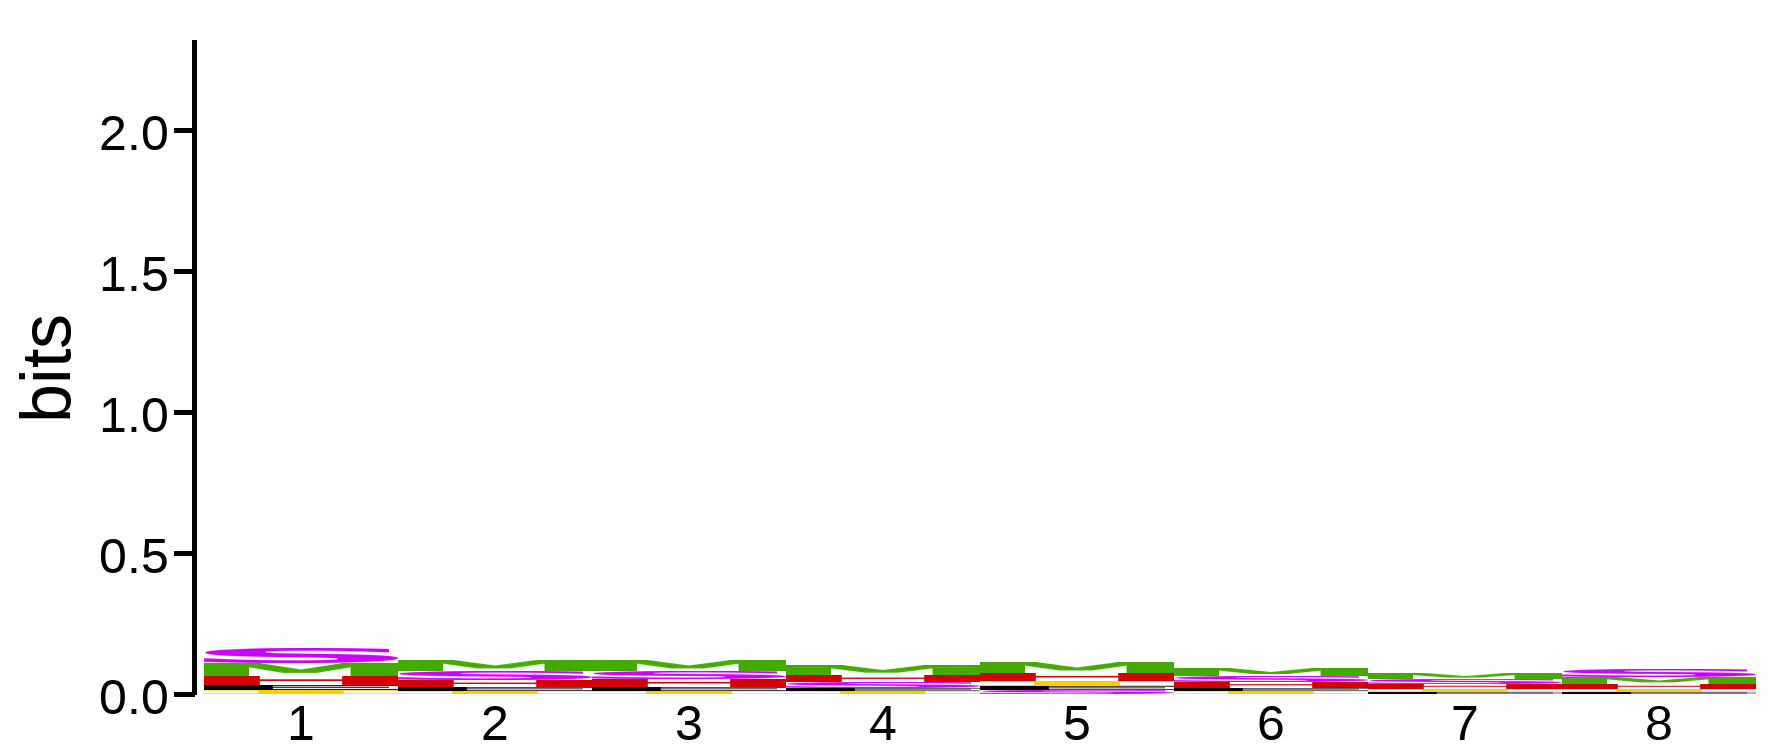
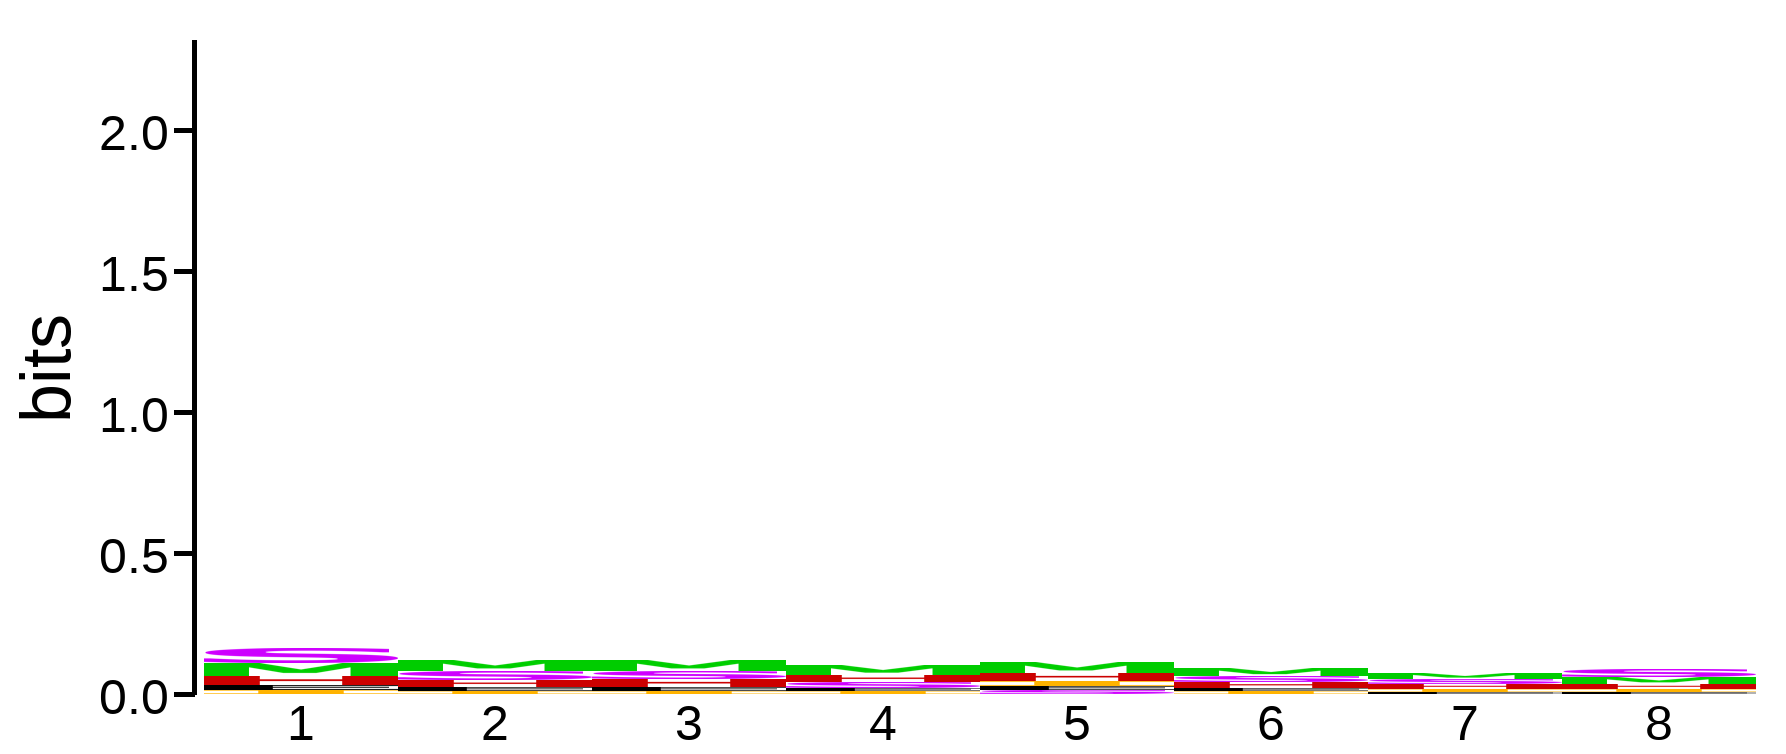
update  graphprot color scheme
Former-commit-id: 96757ba4e1f27cbc4380aca0e694b8ac1dc1d72f

Changed region(s): [[0.0924, 0.8541, 0.9854, 0.9456], [0.3695, 0.9151, 0.4003, 0.9456]]

diff --git a/tutorials/rbp/measure_rbp_graphprot.py b/tutorials/rbp/measure_rbp_graphprot.py
@@ -3,7 +3,7 @@ import numpy as np
 from subprocess import call
 from sklearn.metrics import roc_curve, auc, precision_recall_curve, average_precision_score
 from time import time
-from pysster.Motif import Motif
+from pysster import Motif
 
 
 def get_performance():
@@ -33,7 +33,7 @@ def plot_nicer_motifs():
     with open("GraphProt.structure_motif", "rt") as handle:
         for line in handle:
             seqs.append(line.strip())
-    colors = {'H':(212,0,0), 'I':(255,204,0), 'M':(68,170,0), 'S':(204,0,255)}
+    colors = {'H': '#CC0000', 'I': '#FFB300', 'M': '#00CC00', 'S': '#CC00FF'}
     Motif("HIMSE", seqs).plot(colors).save("motif_structure.png")
 
 
